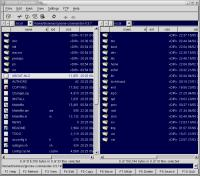
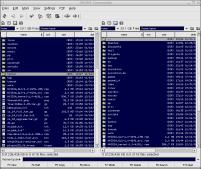
Updated screenshots and fixed some typos

diff --git a/tips.html b/tips.html
@@ -18,16 +18,16 @@ steps:<br>
  <br>
  </small></big> 
 <ul>
-   <li>Download Unscaleable Gorilla from <a
+   <li>Download Unscalable Gorilla from <a
  href="http://jimmac.musichall.cz/download.php3?id=29">here.</a></li>
    <li>Unpack the theme to whereever you want.</li>
    <li>Start GC and open the options dialog. In the<i> Layout</i> tab set
-the <i>Theme icon directory</i> to be the folder where you extracted Unscaleable
+the <i>Theme icon directory</i> to be the folder where you extracted Unscalable
 Gorilla. Also change <i>Row height</i> and <i>Icon size</i> to 20 or some
 other size that you like. When you're done also make sure that the <i>Graphical
 mode</i> is set to <i>MIME icons</i>.</li>
    <li>When you now close the options dialog the file lisings should refresh 
-and you should see Unscaleable Gorilla being used.</li>
+and you should see Unscalable Gorilla being used.</li>
  
 </ul>
  This guide should work for all other nautilus icon themes as well.<br>

diff --git a/index.html b/index.html
@@ -86,16 +86,20 @@ This is the first public version of GNOME commander. Bugreports and feedback is 
 <hr> 
  
 <h2><a name="screenshots">screenshots</a></h2> 
-<table><tr> 
-<td>Overview</td> 
-<td><a href="ss/main_window.png"> 
-<img src="img/thumbmainwindow.jpeg" alt="The main window"></a></td> 
-</tr>   
+<table>
 <tr> 
-<td>FTP Dialog</td> 
-<td><a href="ss/ftp_dialog.png"> 
-<img src="img/thumbftpdialog.jpeg" alt="The main window"></a></td> 
-</tr></table> 
+<td>
+Overview with the default theme<br> 
+<a href="ss/main_window.png"> 
+<img src="img/thumbmainwindow.jpeg" alt="The main window"></a>
+</td> 
+<td>
+Overview with the Unscalable Gorilla theme<br>
+<a href="ss/main_window_gorilla.png"> 
+<img src="img/thumbmainwindow_gorilla.jpeg" alt="The main window"></a>
+</td> 
+</tr>   
+</table> 
 <hr> 
  
 <h2><a name="authors">authors</a></h2> 
